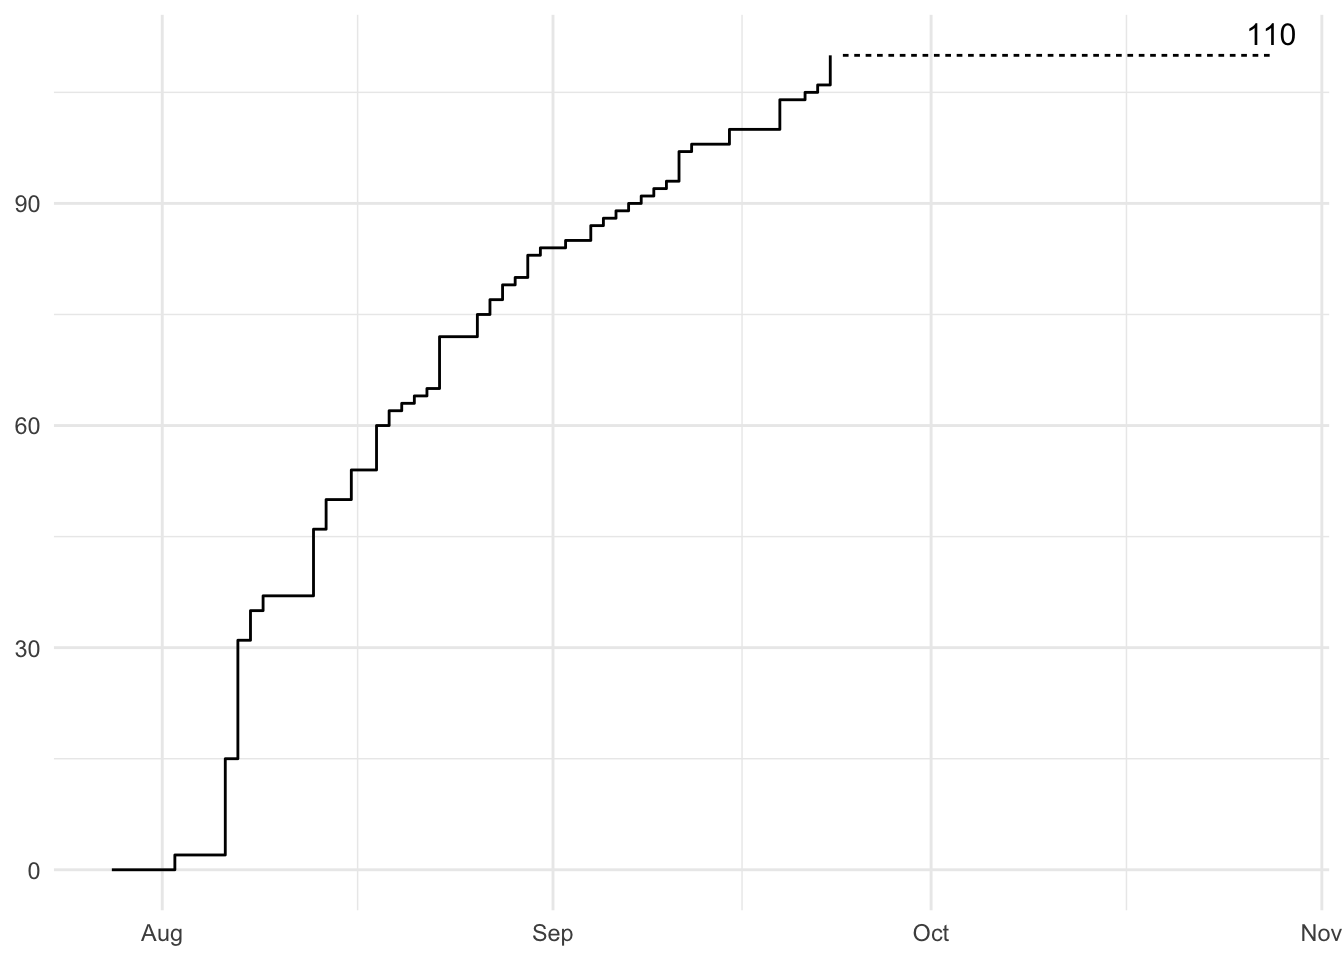
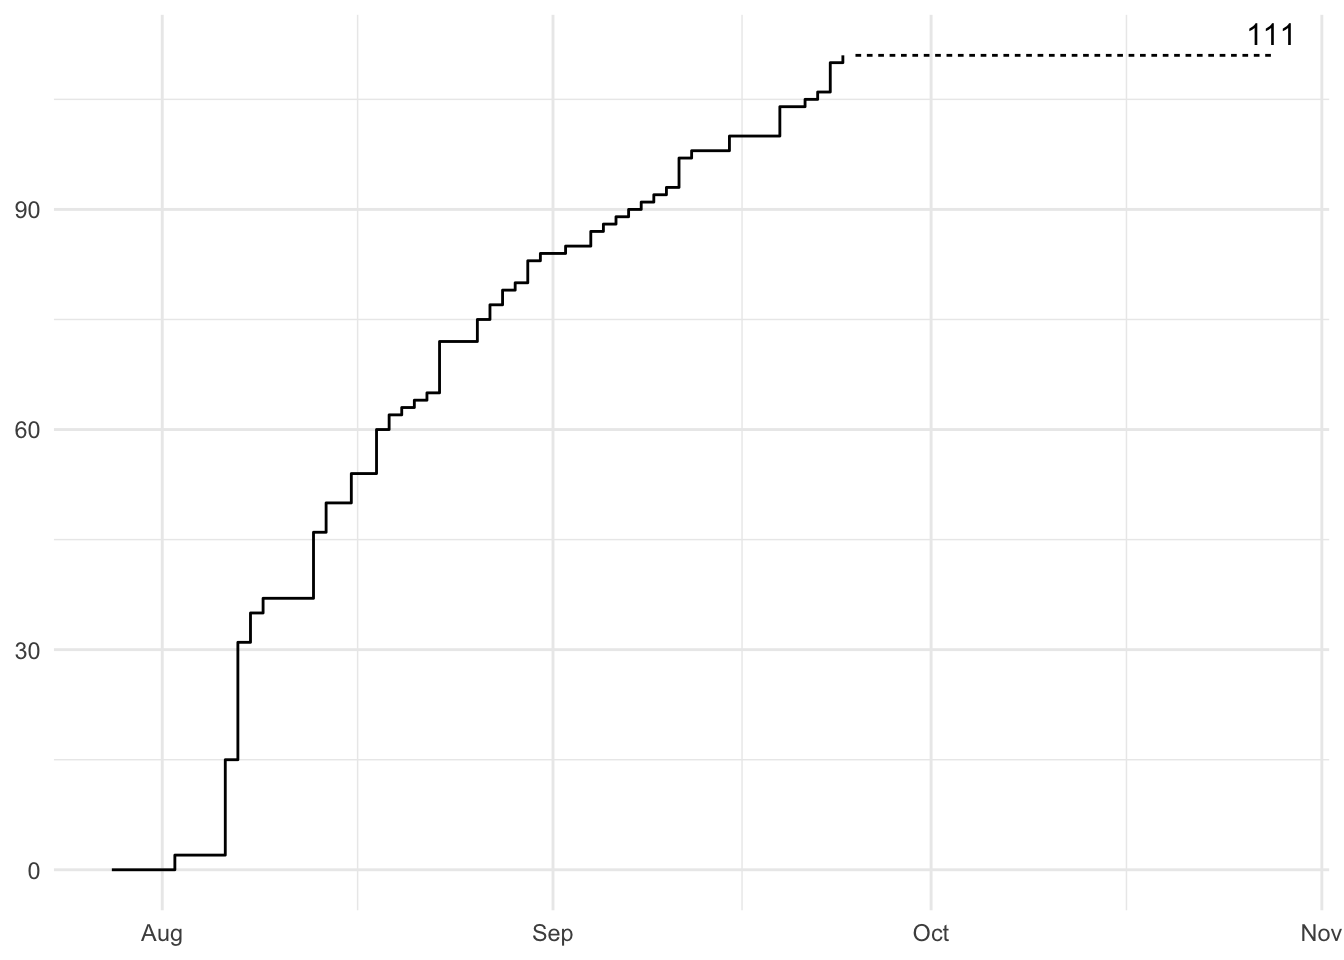
new team and new trajectory files

diff --git a/_site/teams.html b/_site/teams.html
@@ -512,6 +512,7 @@ ul.task-list li input[type="checkbox"] {
   <li><a href="#team_zany_eagle" id="toc-team_zany_eagle" class="nav-link" data-scroll-target="#team_zany_eagle">team_zany_eagle</a></li>
   <li><a href="#team_zany_fireplace" id="toc-team_zany_fireplace" class="nav-link" data-scroll-target="#team_zany_fireplace">team_zany_fireplace</a></li>
   <li><a href="#team_zany_ladder" id="toc-team_zany_ladder" class="nav-link" data-scroll-target="#team_zany_ladder">team_zany_ladder</a></li>
+  <li><a href="#team_zealous_watermelon" id="toc-team_zealous_watermelon" class="nav-link" data-scroll-target="#team_zealous_watermelon">team_zealous_watermelon</a></li>
   <li><a href="#team_zesty_ostrich" id="toc-team_zesty_ostrich" class="nav-link" data-scroll-target="#team_zesty_ostrich">team_zesty_ostrich</a></li>
   <li><a href="#team_zippy_horse" id="toc-team_zippy_horse" class="nav-link" data-scroll-target="#team_zippy_horse">team_zippy_horse</a></li>
   <li><a href="#team_zippy_river" id="toc-team_zippy_river" class="nav-link" data-scroll-target="#team_zippy_river">team_zippy_river</a></li>
@@ -540,8 +541,8 @@ ul.task-list li input[type="checkbox"] {
 </header>
 
 
-<p>There are 110 active teams!</p>
-<p>Here is the cumulative sum of created teams (as of Sep 23, 2024):</p>
+<p>There are 111 active teams!</p>
+<p>Here is the cumulative sum of created teams (as of Sep 24, 2024):</p>
 <div class="cell">
 <div class="cell-output-display">
 <div>
@@ -1728,36 +1729,47 @@ ul.task-list li input[type="checkbox"] {
 <p>Exploring Aviation Business &amp; OSN API</p>
 </section>
 </section>
-<section id="team_zesty_ostrich" class="level2">
-<h2 class="anchored" data-anchor-id="team_zesty_ostrich">team_zesty_ostrich</h2>
+<section id="team_zealous_watermelon" class="level2">
+<h2 class="anchored" data-anchor-id="team_zealous_watermelon">team_zealous_watermelon</h2>
 <section id="description-107" class="level3">
 <h3 class="anchored" data-anchor-id="description-107">Description</h3>
-<p>We are a team consisting of a Data Scientist and an MLOps Engineer, both working for a small IT company in Italy that specializes in providing solutions for the aviation industry</p>
+<p>We are all students in engineering (2nd year of Master), in fields related to Machine Learning, Data Science, Computer Science and Optimisation. Some of us also have a social science background at Sciences Po</p>
 </section>
 <section id="rationale-for-participation-107" class="level3">
 <h3 class="anchored" data-anchor-id="rationale-for-participation-107">Rationale for participation</h3>
+<p>We are all interested in participating in interesting and well-thought ML projects, even more when they are for open source. We think the subject is interesting and clearly defined, making it a great opportunity for learning and hands-on experience. I personally discovered this challenge when digging on SDR-related projects, as I have been amazed by airplanes since my childhood (I was actually looking to build my own Radio to add it to the Open Sky Network). I have invited a few friends to join me on this challenge and work as a team, and we are looking forward to modelization, and to playing with the data</p>
+</section>
+</section>
+<section id="team_zesty_ostrich" class="level2">
+<h2 class="anchored" data-anchor-id="team_zesty_ostrich">team_zesty_ostrich</h2>
+<section id="description-108" class="level3">
+<h3 class="anchored" data-anchor-id="description-108">Description</h3>
+<p>We are a team consisting of a Data Scientist and an MLOps Engineer, both working for a small IT company in Italy that specializes in providing solutions for the aviation industry</p>
+</section>
+<section id="rationale-for-participation-108" class="level3">
+<h3 class="anchored" data-anchor-id="rationale-for-participation-108">Rationale for participation</h3>
 <p>Being already part of the aviation sector, we understand its complexity and challenges. We think this challenge offers a good opportunity for us to engage with new data, further enhance our knowledge, and test our skills</p>
 </section>
 </section>
 <section id="team_zippy_horse" class="level2">
 <h2 class="anchored" data-anchor-id="team_zippy_horse">team_zippy_horse</h2>
-<section id="description-108" class="level3">
-<h3 class="anchored" data-anchor-id="description-108">Description</h3>
+<section id="description-109" class="level3">
+<h3 class="anchored" data-anchor-id="description-109">Description</h3>
 <p>Prof.&nbsp;Dr.&nbsp;Ulrich Schumann studied Mechanical Engineering in Berlin, promoted on turbulence in Karlsruhe and habilitated in Meteorology in Munich, Germany. He works on various aspects of contrail cirrus and airborne measurements, and lectures on aviation climate impact, now at the Technical University Munich. Prof.&nbsp;Ian Poll published a series of open-access aircraft performance models. Dr.&nbsp;Roger Teoh is Scientist at Imperial College (with Prof.&nbsp;Dr Marc Stettler) and published, since 2019, several papers on contrail modelling</p>
 </section>
-<section id="rationale-for-participation-108" class="level3">
-<h3 class="anchored" data-anchor-id="rationale-for-participation-108">Rationale for participation</h3>
+<section id="rationale-for-participation-109" class="level3">
+<h3 class="anchored" data-anchor-id="rationale-for-participation-109">Rationale for participation</h3>
 <p>We plan to derive best estimates of the aircraft takeoff mass (at least upper and lower bounds) by comparing the given flight trajectories with the restrictions resulting from performance modelling using the open access PS Performance model. The most recent model PS model version covers 67 ICAO aircraft types, hopefully including all aircraft types in the set of test data, and provides several criteria to deduce the achievability of the given flight states in respect to Flight level, Mach number, climb rate, vertical and horizontal accelerations, thrust, and lift coefficient, for the potential range of aircraft mass consistent with the takeoff mass, past fuel consumption, including all flight states from departure to destination. This should allow to estimate at least upper and lower bounds of the aircraft mass. The PS model is available among other within the pycontrail code ( https://doi.org/10.5281/zenodo.7776686 ). The PS model got improved over the years, and further improvements are to be expected. The team coordinator works mainly with Fortran, partially with Excel and partially with python</p>
 </section>
 </section>
 <section id="team_zippy_river" class="level2">
 <h2 class="anchored" data-anchor-id="team_zippy_river">team_zippy_river</h2>
-<section id="description-109" class="level3">
-<h3 class="anchored" data-anchor-id="description-109">Description</h3>
+<section id="description-110" class="level3">
+<h3 class="anchored" data-anchor-id="description-110">Description</h3>
 <p>I am an industrial engineering student (final year bachelor) from Hamburg with a focus on data science and a passion for aviation</p>
 </section>
-<section id="rationale-for-participation-109" class="level3">
-<h3 class="anchored" data-anchor-id="rationale-for-participation-109">Rationale for participation</h3>
+<section id="rationale-for-participation-110" class="level3">
+<h3 class="anchored" data-anchor-id="rationale-for-participation-110">Rationale for participation</h3>
 <p>Apply my knowledge for my personal interests</p>
 
 

diff --git a/_site/data.html b/_site/data.html
@@ -515,10 +515,12 @@ submissions/
 Attention
 </div>
 </div>
-<section id="updated-challenge_set.csv-on-16th-aug-2024" class="level4 callout-body-container callout-body">
-<h4 class="anchored" data-anchor-id="updated-challenge_set.csv-on-16th-aug-2024">Updated <code>challenge_set.csv</code> on 16th Aug 2024</h4>
-<p><code>challenge_set.csv</code> now contains fixes for <code>tow</code> originally below minimum mass for the relevant aircraft types.</p>
-<p>Please consider re-downloading it.</p>
+<section id="updated-challenge_set.csv-on-24th-sep-2024" class="level4 callout-body-container callout-body">
+<h4 class="anchored" data-anchor-id="updated-challenge_set.csv-on-24th-sep-2024">Updated <code>challenge_set.csv</code> on <strong>24th Sep 2024</strong></h4>
+<p><strong>24th Sep 2024</strong>: trajectory files have been reprocessed (weird constant altitudes and midnight crossing issues).<br>
+<em>Please consider re-downloading them</em>.</p>
+<p><strong>16th Aug 2024</strong>: <code>challenge_set.csv</code> now contains fixes for <code>tow</code> originally below minimum mass for the relevant aircraft types.<br>
+Please consider re-downloading it.</p>
 </section>
 </div>
 <p>We propose two data sets:</p>
